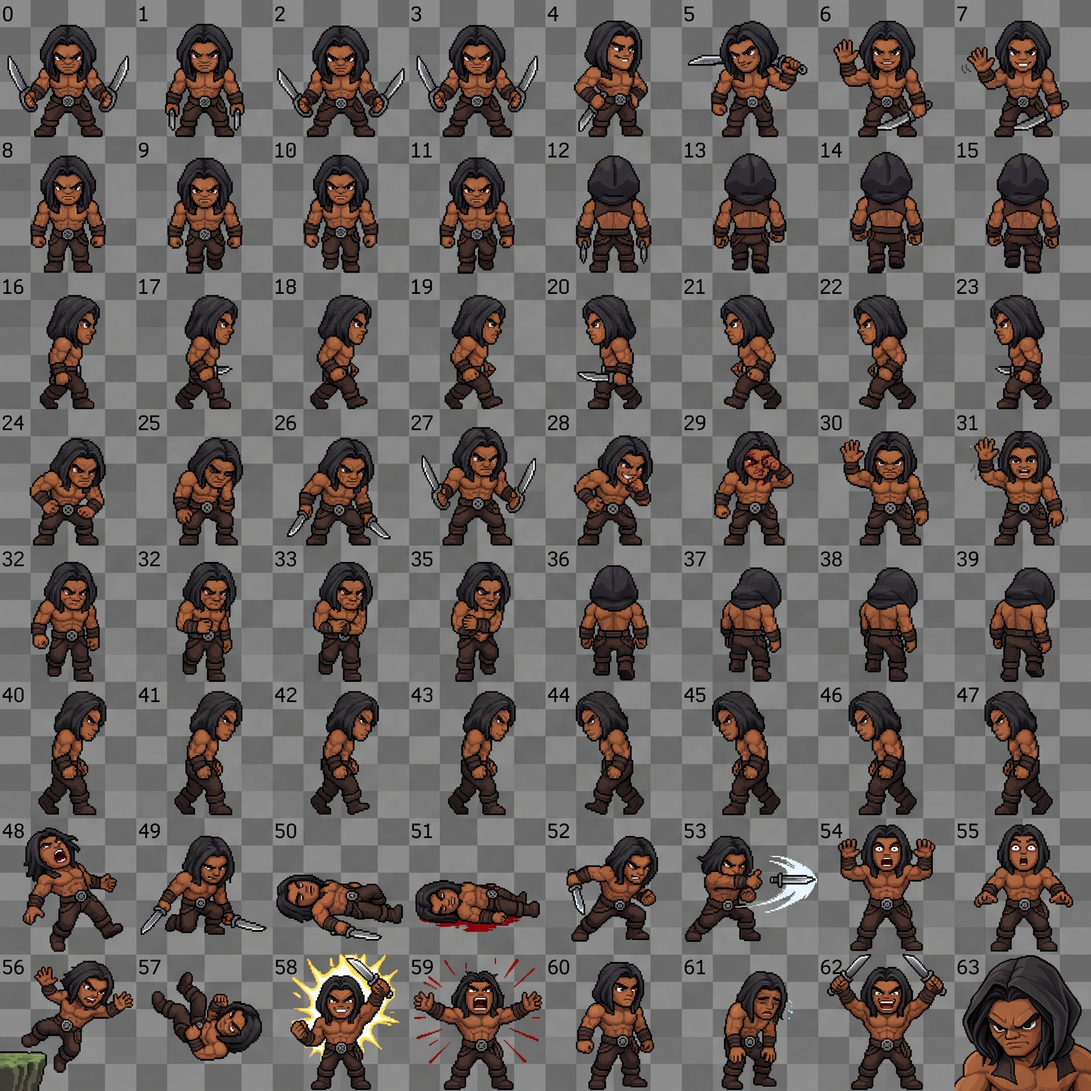
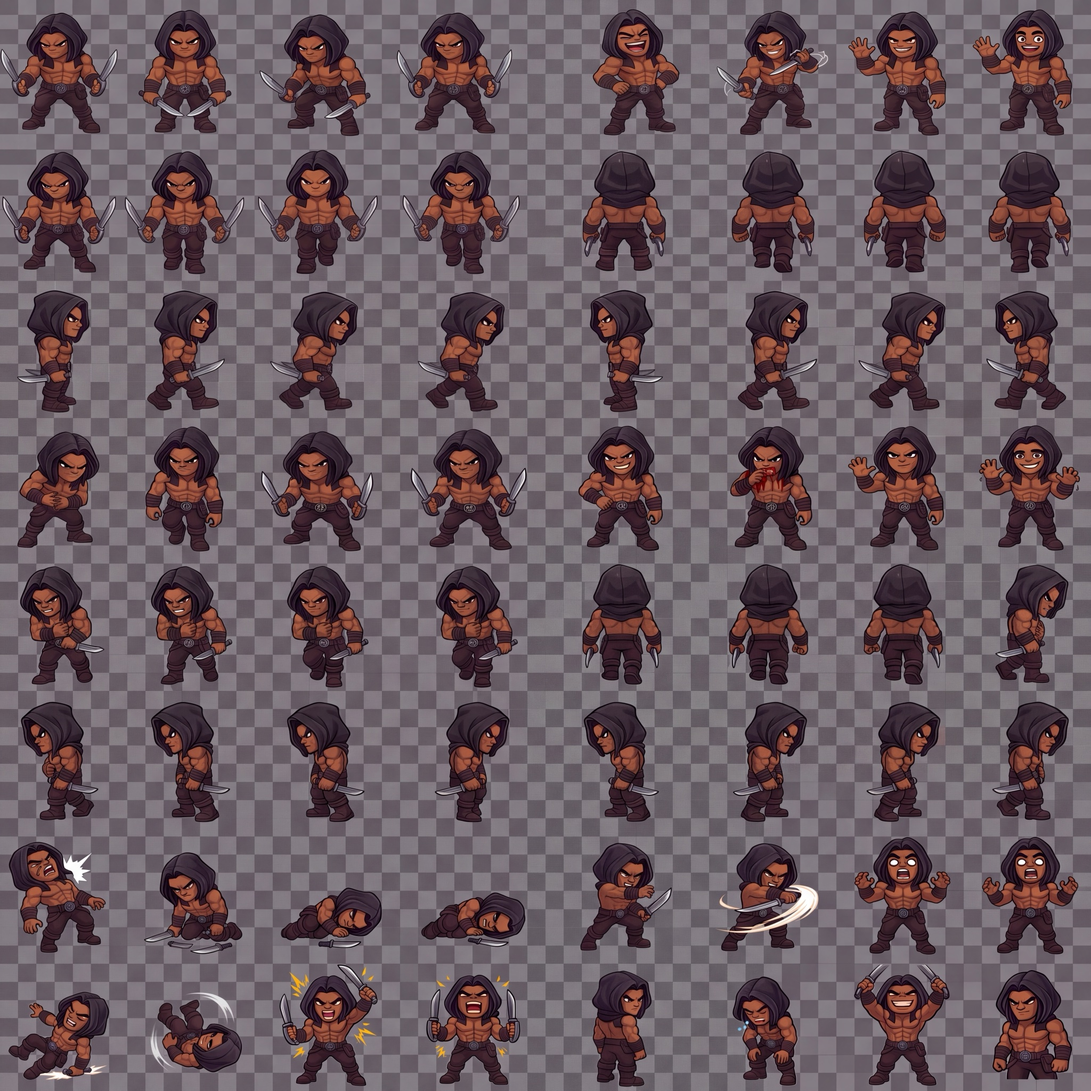
Atlas del bárbaro con la hoja que lleva las dagas en todas las poses (#24)
El recorte del tablero usa muros alrededor del contorno para no tragarse el interior de las dagas.

Claude-Session: https://claude.ai/code/session_011NYHqmTjtGTs27T8dwrHLE

diff --git a/tools/slice_atlas.py b/tools/slice_atlas.py
@@ -18,6 +18,7 @@ OUT = 128            # lado de cada fotograma de salida
 BASELINE = 122       # fila donde apoyan los pies
 CENTER_X = 64        # columna donde se centra el personaje
 SCALE = 0.50         # factor sobre el tamaño nativo de la celda (2048/8 = 256 px → 128)
+TINT_MIN = 5         # tinte mínimo del tablero (R-G) frente al gris neutro del metal
 INSET = 4            # margen que se descarta en cada celda (bordes de la cuadrícula)
 UNANCHORED = {56, 57, 63}  # retrato y caídas en el aire: se encajan enteros, sin anclar los pies
 
@@ -31,11 +32,20 @@ def extract(rgb: np.ndarray) -> np.ndarray:
     pix = rgb.astype(int)
     sat = pix.max(axis=2) - pix.min(axis=2)
     lum = pix.mean(axis=2)
-    checker = (sat < 18) & (lum > 90) & (lum < 150)
+    # El tablero es gris con un tinte morado (R-G ≈ 8, B-G ≈ 7); el metal de las dagas es gris neutro
+    tint = ((pix[:, :, 0] - pix[:, :, 1]) >= TINT_MIN) & ((pix[:, :, 2] - pix[:, :, 1]) >= TINT_MIN - 1)
+    checker = (sat < 24) & (lum > 90) & (lum < 150) & tint
     checker = ndi.binary_closing(checker, structure=np.ones((3, 3)), iterations=1) | checker
+    # El contorno oscuro (o con color) del personaje hace de muro: el interior de una daga tiene el mismo
+    # gris que el tablero y se colaría por cualquier hueco del contorno
+    walls = ndi.binary_dilation((lum < 85) | (sat > 40), iterations=2)
+    open_checker = checker & ~walls
     seeds = np.zeros_like(checker)
     seeds[0, :] = seeds[-1, :] = seeds[:, 0] = seeds[:, -1] = True
-    bg = ndi.binary_propagation(seeds & checker, mask=checker)
+    core = ndi.binary_opening(open_checker, structure=np.ones((13, 13)))
+    bg = ndi.binary_propagation(seeds & core, mask=open_checker)
+    # Recupera el borde del tablero pegado al contorno, sin llegar al interior de las dagas
+    bg = ndi.binary_dilation(bg, iterations=3, mask=checker) | bg
     # Los cuadros blancos del borde de la cuadrícula
     fg = ~ndi.binary_dilation(bg, iterations=1)
     # Quita los números de la esquina y las motas sueltas: solo se conservan componentes grandes
@@ -101,9 +111,6 @@ def main(src: str, dst: str) -> None:
         x1, y1 = round((col + 1) * pitch) - INSET, round((row + 1) * pitch) - INSET
         rgb = np.array(sheet.convert('RGB').crop((x0, y0, x1, y1)))
         mask = extract(rgb)
-        if index == 56:  # el borde del barranco que asoma en la esquina
-            h, w = mask.shape
-            mask[int(h * 0.68):, : int(w * 0.42)] = 0
         rgba = np.dstack([rgb, (mask * 255).astype(np.uint8)])
         frame = Image.fromarray(rgba, 'RGBA')
         if index in UNANCHORED:
